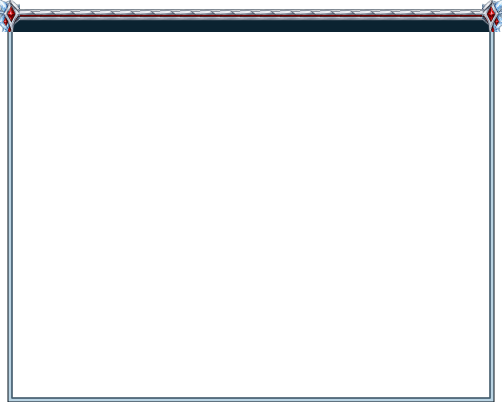
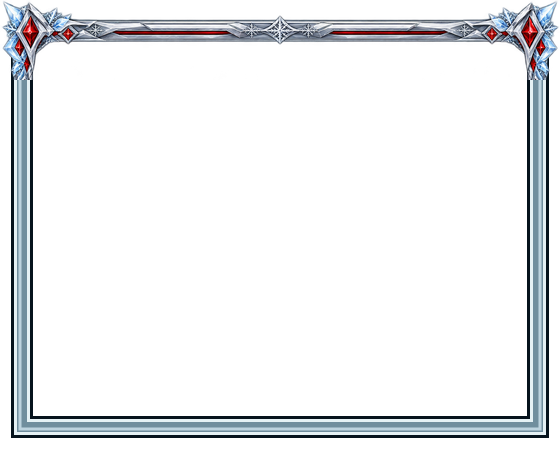
Prepare Winter Atelier 0.2.5 frames, footers and atlas cleanup

Changed region(s): [[0.0, 0.0, 1.0, 1.0]]

diff --git a/Winter-Atelier-Test/css/winter-atelier.css b/Winter-Atelier-Test/css/winter-atelier.css
@@ -16,13 +16,13 @@ ins,mark{color:var(--wa-text-main);}
 .interface-element-additional-bag-eq-icon-background,.interface-element-equipment .eq-slot[data-st="9"] .eq-cl,.interface-element-equipment-with-additional-bag .eq-slot[data-st="9"] .eq-cl{background-image:url(../assets/equipment-empty-icons.png);background-size:234px 26px;background-position:-208px 0px;background-repeat:no-repeat;}
 .interface-element-boots-eq-icon-background,.interface-element-equipment .eq-slot[data-st="8"] .eq-cl,.interface-element-equipment-with-additional-bag .eq-slot[data-st="8"] .eq-cl{background-image:url(../assets/equipment-empty-icons.png);background-size:234px 26px;background-position:-182px 0px;background-repeat:no-repeat;}
 .interface-element-bag-eq-icon-background{background-image:url(../assets/buttony.png);}
-.interface-element-border-window-frame{border-image-source:url(../assets/window-frame.png);}
-.additional-skill-panel .graphics .additional-skill-panel-border{border-image-source:url(../assets/window-frame.png);bottom:0px;}
-.battle-controller .graphics .battle-border{border-image-source:url(../assets/window-frame.png);bottom:0px;background-color:rgba(10,20,25,.68);background-image:linear-gradient(135deg,rgba(222,241,247,.065),transparent 35%,rgba(0,0,0,.16)),url(../assets/frost-surface.png);background-clip:padding-box;box-shadow:inset 0 1px rgba(210,237,245,.08),inset 0 -12px 28px rgba(0,0,0,.18);isolation:isolate;}
-.border-window{border-image-source:url(../assets/window-frame.png);color:var(--wa-text-main);background-color:rgba(10,20,25,.68);background-image:linear-gradient(135deg,rgba(222,241,247,.065),transparent 35%,rgba(0,0,0,.16)),url(../assets/frost-surface.png);background-clip:padding-box;box-shadow:inset 0 1px rgba(210,237,245,.08),inset 0 -12px 28px rgba(0,0,0,.18);--wa-bg-secondary:rgba(9,20,25,.22);}
+.interface-element-border-window-frame{border-image-source:none;}
+.additional-skill-panel .graphics .additional-skill-panel-border{border-image-source:url(../assets/battle-compact-frame.png);bottom:0px;border-image-slice:80;border-image-width:40px;border-image-outset:0px 4px;border-image-repeat:stretch;}
+.battle-controller .graphics .battle-border{border-image-source:url(../assets/battle-compact-frame.png);bottom:0px;background-color:rgba(10,20,25,.68);background-image:linear-gradient(135deg,rgba(222,241,247,.065),transparent 35%,rgba(0,0,0,.16)),url(../assets/frost-surface.png);background-clip:padding-box;box-shadow:inset 0 1px rgba(210,237,245,.08),inset 0 -12px 28px rgba(0,0,0,.18);isolation:isolate;border-image-slice:80;border-image-width:40px;border-image-outset:0px 4px;border-image-repeat:stretch;}
+.border-window{border-image-source:none;color:var(--wa-text-main);background-color:rgba(10,20,25,.68);background-image:linear-gradient(135deg,rgba(222,241,247,.065),transparent 35%,rgba(0,0,0,.16)),url(../assets/frost-surface.png);background-clip:padding-box;box-shadow:inset 0 1px rgba(210,237,245,.08),inset 0 -12px 28px rgba(0,0,0,.18);--wa-bg-secondary:rgba(9,20,25,.22);}
 .interface-element-equipment .equipment-wrapper-outline .equipment-outline-1,.interface-element-equipment-with-additional-bag .equipment-wrapper-outline .equipment-outline-1,.interface-element-equipment .equipment-wrapper-outline .equipment-outline-2,.interface-element-equipment-with-additional-bag .equipment-wrapper-outline .equipment-outline-2,.interface-element-equipment .equipment-wrapper-outline .equipment-outline-3,.interface-element-equipment-with-additional-bag .equipment-wrapper-outline .equipment-outline-3,.interface-element-equipment .equipment-wrapper-outline .equipment-outline-4,.interface-element-equipment-with-additional-bag .equipment-wrapper-outline .equipment-outline-4{background-color:var(--wa-bg-secondary);}
-.interface-element-border-window-header-middle,.trade-window header .h_background .middle{background-color:var(--wa-ruby);background-image:linear-gradient(#4b1022,#8c1934 45%,#3b0b1b);box-shadow:inset 0 1px #071019,inset 0 2px #b4d6e8,inset 0 3px #54748b,inset 0 -1px #071019,inset 0 -2px #b4d6e8,inset 0 -3px #54748b;}
-.border-window .header-label-positioner .header-label{background-color:transparent;background-image:linear-gradient(to bottom,rgba(164,180,191,0.90196078) 0px 1px,rgba(173,188,199,1) 1px 2px,rgba(115,130,143,1) 2px 3px,rgba(47,32,40,1) 3px 4px,rgba(154,23,41,1) 4px 5px,rgba(95,7,12,1) 5px 6px,rgba(73,0,1,1) 6px 7px,rgba(75,0,3,1) 7px 8px,rgba(81,0,2,1) 8px 9px,rgba(84,0,3,1) 9px 10px,rgba(78,0,2,1) 10px 11px,rgba(83,0,3,1) 11px 12px,rgba(86,0,3,1) 12px 13px,rgba(96,0,6,1) 13px 14px,rgba(81,0,4,1) 14px 15px,rgba(72,0,2,1) 15px 16px,rgba(85,0,4,1) 16px 17px,rgba(88,0,4,1) 17px 18px,rgba(78,1,5,1) 18px 19px,rgba(64,0,0,1) 19px 20px,rgba(62,7,10,1) 20px 21px,rgba(122,142,161,1) 21px 22px,rgba(107,134,158,1) 22px 23px,rgba(62,84,104,1) 23px 24px,rgba(107,134,158,1) 24px 25px,rgba(107,133,158,1) 25px 26px,rgba(107,134,158,0.83529412) 26px 27px,rgba(107,134,158,0.2627451) 27px 28px);box-shadow:none;}
+.interface-element-border-window-header-middle{background-color:var(--wa-ruby);background-image:linear-gradient(#4b1022,#8c1934 45%,#3b0b1b);box-shadow:inset 0 1px #071019,inset 0 2px #b4d6e8,inset 0 3px #54748b,inset 0 -1px #071019,inset 0 -2px #b4d6e8,inset 0 -3px #54748b;}
+.trade-window header .h_background .middle,.border-window .header-label-positioner .header-label{background-color:transparent;box-shadow:none;}
 .interface-element-one-item-slot-background-to-repeat{background-image:url(../assets/shop-item-cell.png);background-position:0px 0px;background-repeat:repeat;background-size:33px 33px;}
 .shop-wrapper .shop-content .shop-items.scrollable .scroll-pane,.interface-element-item-slot-grid-stretch{background-image:url(../assets/shop-item-cell.png);background-size:33px 33px;background-position:0px 0px;background-repeat:repeat;}
 .interface-element-vertical-wood{background-image:url(../assets/middle_graphics.png);}
@@ -198,7 +198,7 @@ body:not(.mobile-version) .button:not(.no-hover):not(.disabled):hover:not(.activ
 .border-window .close-button-corner-decor .close-button{cursor:url(../assets/cursor-5n.png) 4 0,auto;background-image:url(../assets/window-close.png),linear-gradient(#751a2e,#290c18);background-color:#401020;background-position:0px 0px;background-size:100% 100%,100% 100%;background-repeat:no-repeat;box-shadow:inset 0 0 0 1px #e0f0f5,inset 0 0 0 2px #667e8b,0 0 0 1px #12212a;border-radius:3px;}
 .border-window .header-label-positioner{cursor:url(../assets/cursor-5n.png) 4 0,auto;}
 .border-window .header-label-positioner .header-label .left-decor,.border-window .header-label-positioner .header-label .right-decor{background-image:url(../assets/dialogi.png);}
-.search-component{border-image-source:url(../assets/search-frame.png);}
+.search-component{border-image-source:none;}
 .search-component .search{color:var(--wa-text-main);}
 .scroll-wrapper .scrollbar-wrapper .track .handle{cursor:url(../assets/cursor-5n.png) 4 0,auto;}
 .test-scroll{color:var(--wa-text-main);}
@@ -235,7 +235,7 @@ body:not(.mobile-version) .button:not(.no-hover):not(.disabled):hover:not(.activ
 .cost-icon-component .cost-icon-wrapper .icon.honor-icon{background-image:url(../assets/honorIconNormal.png);}
 .pb-fifty:before{background-color:var(--wa-bg-secondary);}
 .card-button-test.active,.card-button-test:hover,.loot-window{color:var(--wa-text-main);}
-.loot-window .bottom-bar-wrapper .bottom-bar{background-image:url(../assets/buttony.png);left:0px;right:0px;}
+.loot-window .bottom-bar-wrapper .bottom-bar{background-image:none;left:-10px;right:-10px;border-image-source:none;width:auto;}
 .loot-window .items-wrapper .loot-item-wrapper .text-info{color:var(--wa-text-main);}
 .loot-window .items-wrapper .loot-item-wrapper .button .label.want,.loot-window .items-wrapper .loot-item-wrapper .button .label.not,.loot-window .items-wrapper .loot-item-wrapper .button .label.must{background-image:url(../assets/buttony.png);}
 .relogger__header{color:var(--wa-text-main);}
@@ -315,7 +315,7 @@ body:not(.mobile-version) .button:not(.no-hover):not(.disabled):hover:not(.activ
 .one-handheld-build{cursor:url(../assets/cursor-5n.png) 4 0,auto;background-color:var(--wa-bg-secondary);}
 .one-handheld-build.active{background-color:var(--wa-bg-secondary);}
 .barter-window .crafting-cost-panel .cost-header-label,.barter-window .additional-container .c-slider__state{color:var(--wa-text-main);}
-.shop-wrapper .shop-background .outfit-pet-scene{background-image:url(../assets/pet-shop-gold.png);}
+.shop-wrapper .shop-background .outfit-pet-scene{background-image:url(../assets/shop-scene.png);background-position:0 0;background-repeat:no-repeat;background-size:166px 130px;}
 .shop-wrapper .shop-background.normal-shop-zl .canopy{background-image:url(../assets/shop-canopy.png);background-position:0 -2px;background-size:488px 92px;background-repeat:repeat-x;}
 .shop-wrapper .shop-background.normal-shop-sl .canopy{background-image:url(../assets/shop-canopy.png);background-position:0 -48px;background-size:488px 92px;background-repeat:repeat-x;}
 .shop-wrapper .shop-background.pet-shop-zl .canopy{background-image:url(../assets/shop-canopy.png);background-position:0 -2px;background-size:488px 92px;background-repeat:repeat-x;}
@@ -393,7 +393,8 @@ body:not(.mobile-version) .button:not(.no-hover):not(.disabled):hover:not(.activ
 .battle-window .battlelog div.attack{background-image:url(../assets/line-highlight-green2.png);}
 .battle-window .battlelog div.attack2{background-image:url(../assets/line-highlight-red2.png);}
 .battle-window .battlelog div.neu{background-image:url(../assets/line-highlight-yellow2.png);}
-.one-battle-skill-tip .skill-tip-header .skill-graphic-wrapper,.battle-summary .bottom-bar-wrapper .bottom-bar{background-image:url(../assets/buttony.png);}
+.one-battle-skill-tip .skill-tip-header .skill-graphic-wrapper{background-image:url(../assets/buttony.png);}
+.battle-summary .bottom-bar-wrapper .bottom-bar{background-image:none;border-image-source:none;left:-10px;right:-10px;width:auto;}
 .battle-summary .bottom-bar-wrapper .bottom-bar .settings-button{cursor:url(../assets/cursor-5n.png) 4 0,auto;}
 .battle-summary .bottom-bar-wrapper .bottom-bar .settings-button .icon{background-image:url(../assets/buttony.png);}
 .battle-banner{background-image:url(../assets/battle-banner.png);}
@@ -439,7 +440,8 @@ body:not(.mobile-version) .button:not(.no-hover):not(.disabled):hover:not(.activ
 .card-content .table-header td.header-sort--asc:after,.card-content .table-header td.header-sort--desc:after{background-image:url(../assets/buttony.png);}
 .clan-list-content .first-scroll-wrapper .scroll-pane table .hover:hover{cursor:url(../assets/cursor-5n.png) 4 0,auto;background-color:var(--wa-bg-secondary);}
 .clan-list-find-panel .clan-list-find-content .input-wrapper .default{color:var(--wa-text-main);}
-.clan-members-content .scroll-wrapper .scroll-pane .clan-member .add-to-group .button .add-bck,.clan-treasury-content .scroll-wrapper .scroll-pane .right-part .outfit-content{background-image:url(../assets/buttony.png);}
+.clan-members-content .scroll-wrapper .scroll-pane .clan-member .add-to-group .button .add-bck{background-image:url(../assets/buttony.png);}
+.clan-treasury-content .scroll-wrapper .scroll-pane .right-part .outfit-content{background-image:url(../assets/clan-outfit-scene.png);background-position:0 0;background-repeat:no-repeat;background-size:168px 256px;}
 .clan-rank-edit-content .check-rank .left-ranks .one-rank .v-align,.clan-rank-edit-content .check-rank .right-ranks .one-rank .v-align{cursor:url(../assets/cursor-5n.png) 4 0,auto;}
 .clan-manage-content .socplay .v-align .v-item .label-box{background-color:var(--wa-bg-secondary);}
 .clan-info-content .scroll-wrapper .scroll-pane .ribbon{background-image:url(../assets/buttony.png);}
@@ -701,7 +703,7 @@ body{color:var(--wa-text-main);font-family:"Winter Atelier Cinzel",Arimo,Calibri
 .battle-controller .battle-content .time-wrapper{top:5px;}
 .battle-controller .battle-watch{top:6px;line-height:14px;padding:0px 4px;white-space:nowrap;font-family:Arial,sans-serif;font-size:11px;font-variant-numeric:tabular-nums;font-weight:700;color:#ffffff;background-color:#102532;border-radius:2px;text-shadow:0 1px #02070b;}
 .battle-controller .battle-watch.right,.battle-controller .battle-watch.middle,.game-window-positioner.light-interface .interface-layer .bottom.positioner .battle-controller .battle-watch.right{right:136px;top:6px;}
-.battle-controller .battle-content .buttons-wrapper .button.square{bottom:5px;}
+.battle-controller .battle-content .buttons-wrapper .button.square{bottom:7px;}
 .battle-controller:not(.with-skills) .graphics .bottom-graphic{background-image:none;height:50px;background-color:rgba(10,20,25,.68);}
 .battle-controller:not(.with-skills) .battle-content .left-column,.battle-controller:not(.with-skills) .battle-content .right-column,.battle-controller:not(.with-skills) .graphics .middle-graphic{bottom:50px;}
 .battle-controller .battle-content .buttons-wrapper .change-target-btn.square,.battle-controller .battle-content .buttons-wrapper .copy-battle-logs.square{left:20px;}
@@ -721,7 +723,7 @@ body{color:var(--wa-text-main);font-family:"Winter Atelier Cinzel",Arimo,Calibri
 .layer.interface-layer .positioner.top .hud-container .hero-data .hero_class.t{background-image:url(../assets/profession-tracker.png);background-position:0 0;background-repeat:no-repeat;background-size:20px 20px;}
 .layer.interface-layer .positioner.top .hud-container .gold-tip{background-image:url(../assets/ui-gold-21x21.png);background-position:0 0;background-repeat:no-repeat;background-size:21px 21px;}
 .layer.interface-layer .positioner.top .hud-container .credits-tip{background-image:url(../assets/credits-gem.png);background-position:center;background-repeat:no-repeat;background-size:16.5px 21px;}
-.trade-window{background-color:rgba(10,20,25,.68);background-image:linear-gradient(135deg,rgba(222,241,247,.065),transparent 35%,rgba(0,0,0,.16)),url(../assets/frost-surface.png);background-clip:padding-box;box-shadow:inset 0 1px rgba(210,237,245,.08),inset 0 -12px 28px rgba(0,0,0,.18);border-bottom-width:42px;border-image-width:32px 20px;isolation:isolate;}
+.trade-window{background-color:rgba(10,20,25,.68);background-image:linear-gradient(135deg,rgba(222,241,247,.065),transparent 35%,rgba(0,0,0,.16)),url(../assets/frost-surface.png);background-clip:padding-box;box-shadow:inset 0 1px rgba(210,237,245,.08),inset 0 -12px 28px rgba(0,0,0,.18);border-bottom-width:42px;isolation:isolate;border-image-source:none;--wa-frame-bottom:42px;}
 .bubbledialog{background-color:transparent;background-image:none;background-clip:padding-box;box-shadow:none;}
 .tip-wrapper{background-color:#071d2bdf;background-image:none;background-clip:padding-box;box-shadow:0 0 0 1px #8db1cc,0 3px 8px #0009;color:#e1eff8;border-color:#9cbfd5;}
 .border-window.transparent{--wa-bg-secondary:rgba(9,20,25,.12);background-color:transparent;background-image:none;box-shadow:none;}
@@ -821,7 +823,8 @@ body{color:var(--wa-text-main);font-family:"Winter Atelier Cinzel",Arimo,Calibri
 .game-window-positioner .character_wrapper .pvp-btn.fight:hover{background-image:url(../assets/pvp-states.png);background-size:104px 28px;background-position:-78px 0px;background-repeat:no-repeat;}
 .one-build .build-index-wrapper,.one-build-to-buy .build-index-wrapper,.one-handheld-build .build-index-wrapper{background-image:url(../assets/build-index-frame.png);background-size:100% 100%;background-position:center;background-repeat:no-repeat;}
 .build-index{color:#edf7fc;text-shadow:0 1px 1px #02080d;}
-.border-window:not(.transparent)::before,.battle-controller .graphics .battle-border::before{content:"";position:absolute;top:-8px;right:-4px;bottom:-12px;left:-4px;background-color:#0b2331;clip-path:polygon(4px 0,calc(100% - 4px) 0,calc(100% - 4px) 8px,100% 8px,100% calc(100% - 12px),calc(100% - 4px) calc(100% - 12px),calc(100% - 4px) 100%,4px 100%,4px calc(100% - 12px),0 calc(100% - 12px),0 8px,4px 8px);z-index:-1;pointer-events:none;}
+.border-window:not(.transparent)::before{content:"";position:absolute;top:-8px;right:-4px;bottom:-12px;left:-4px;background-color:#0b2331;clip-path:polygon(4px 0,calc(100% - 4px) 0,calc(100% - 4px) 8px,100% 8px,100% calc(100% - 12px),calc(100% - 4px) calc(100% - 12px),calc(100% - 4px) 100%,4px 100%,4px calc(100% - 12px),0 calc(100% - 12px),0 8px,4px 8px);z-index:-1;pointer-events:none;}
+.battle-controller .graphics .battle-border::before{content:"";position:absolute;top:-12px;right:-12px;bottom:-20px;left:-12px;background-color:#0b2331;clip-path:polygon(4px 0,calc(100% - 4px) 0,calc(100% - 4px) 8px,100% 8px,100% calc(100% - 12px),calc(100% - 4px) calc(100% - 12px),calc(100% - 4px) 100%,4px 100%,4px calc(100% - 12px),0 calc(100% - 12px),0 8px,4px 8px);z-index:-1;pointer-events:none;}
 .auction-window .left-column-auction .all-categories-auction .one-category-auction .icon{background-image:url(../assets/auction-categories.png);background-size:650px 26px;background-repeat:no-repeat;width:26px;height:26px;top:3px;}
 .auction-window .left-column-auction .all-categories-auction .one-category-auction .icon.cl-1{background-position:0px 0px;}
 .auction-window .left-column-auction .all-categories-auction .one-category-auction .icon.cl-2{background-position:-26px 0px;}
@@ -849,12 +852,23 @@ body{color:var(--wa-text-main);font-family:"Winter Atelier Cinzel",Arimo,Calibri
 .auction-window .left-column-auction .all-categories-auction .one-category-auction .icon.cl-32{background-position:-598px 0px;}
 .auction-window .left-column-auction .all-categories-auction .one-category-auction .icon.cl-99{background-position:-624px 0px;width:26px;}
 .enhance__progressbar::after{content:"";position:absolute;width:7px;height:7px;left:calc(50% - 3.5px);top:calc(50% - 3.5px);transform:rotate(45deg);background-image:linear-gradient(135deg,#ef8391,#940c29 55%,#340e20);box-shadow:0 0 0 1px #cde5ef;pointer-events:none;}
-.border-window:not(.transparent):is(.c-window--with-bottom-bar,:has(.bottom-row-panel:not([style*="display: none"]),.bottom-change-outfit-panel,.bottom-bar,.bottom-part,.bottom-wrapper,.premium-bottom-panel,.console-bottom-panel-wrapper,.bottom-mail-panel,.bottom-friend-panel,.bottom-panel-graphics)){border-bottom-width:42px;border-image-width:32px 20px;}
-.border-window:not(.transparent):is(.c-window--with-bottom-bar,:has(.bottom-row-panel:not([style*="display: none"]),.bottom-change-outfit-panel,.bottom-bar,.bottom-part,.bottom-wrapper,.premium-bottom-panel,.console-bottom-panel-wrapper,.bottom-mail-panel,.bottom-friend-panel,.bottom-panel-graphics))::before{bottom:-28px;}
-.left-grouped-list-and-right-description-window .bottom-row-panel,.change-outfit .bottom-change-outfit-panel,.battle-pass-window .bottom-row-panel,.trade-window .bottom-bar,.c-window__bottom-bar,.depo .bottom-bar{left:0px;right:0px;}
-.trade-window::before{content:"";position:absolute;top:-8px;bottom:-26px;left:0px;right:0px;background-color:#0b2331;z-index:-1;pointer-events:none;}
+.border-window:not(.transparent):is(.c-window--with-bottom-bar,:has(.bottom-row-panel:not([style*="display: none"]),.bottom-change-outfit-panel,.bottom-bar,.bottom-part,.bottom-wrapper,.premium-bottom-panel,.console-bottom-panel-wrapper,.bottom-mail-panel,.bottom-friend-panel,.bottom-panel-graphics)){border-bottom-width:42px;--wa-frame-bottom:42px;}
+.left-grouped-list-and-right-description-window .bottom-row-panel,.change-outfit .bottom-change-outfit-panel,.battle-pass-window .bottom-row-panel{left:-10px;right:-10px;background-image:none;border-image-source:none;width:auto;}
+.trade-window .bottom-bar{left:-10px;right:-10px;background-image:linear-gradient(rgba(190,220,234,.09),transparent 25%,rgba(1,8,14,.46)),url(../assets/shop-interior.png);border-image-source:none;width:auto;background-size:100% 100%,cover;background-position:0px 0px,center bottom;background-repeat:no-repeat;background-color:#0b2331;box-shadow:inset 0 1px #a7c5d4,inset 0 3px #162e3c,inset 0 -3px #030d14,inset 0 8px 10px rgba(2,10,16,.3);border-color:transparent;}
+.c-window__bottom-bar,.depo .bottom-bar{left:-10px;right:-10px;background-image:none;border-image-source:none;width:auto;}
+.trade-window::before{content:"";position:absolute;top:-20px;bottom:calc(8px - var(--wa-frame-bottom));left:-12px;right:-12px;background-color:#0b2331;z-index:-1;pointer-events:none;background-image:none;clip-path:polygon(8px 0,calc(100% - 8px) 0,100% 8px,100% calc(100% - 8px),calc(100% - 8px) 100%,8px 100%,0 calc(100% - 8px),0 8px);}
 .border-window:has(.depo) .content{padding:16px 0 10px;}
-.border-window .bottom-bar,.loot-window .bottom-wrapper,.auction-window .bottom-part,.border-window .world-window .bottom-bar,.premium-panel .premium-bottom-panel,.matchmaking-summary .bottom-panel-graphics,.divide-panel .bottom-part,.console-window .console-bottom-panel-wrapper,.mails-window .bottom-mail-panel,.friend-enemy-list .bottom-friend-panel,.skills-window .bottom-part,.matchmaking-panel .bottom-panel-graphics{left:0px;right:0px;}
+.border-window .bottom-bar,.loot-window .bottom-wrapper,.auction-window .bottom-part,.border-window .world-window .bottom-bar,.premium-panel .premium-bottom-panel,.matchmaking-summary .bottom-panel-graphics,.divide-panel .bottom-part,.console-window .console-bottom-panel-wrapper,.mails-window .bottom-mail-panel,.friend-enemy-list .bottom-friend-panel,.skills-window .bottom-part,.matchmaking-panel .bottom-panel-graphics{left:-10px;right:-10px;background-image:none;border-image-source:none;width:auto;}
+.border-window:not(.transparent):not(.tip-window){border-image-source:none;--wa-frame-bottom:32px;isolation:isolate;}
+.border-window:not(.transparent):not(.tip-window)::before{content:"";position:absolute;top:-20px;right:-12px;bottom:calc(8px - var(--wa-frame-bottom));left:-12px;background-color:#0b2331;background-image:none;clip-path:polygon(8px 0,calc(100% - 8px) 0,100% 8px,100% calc(100% - 8px),calc(100% - 8px) 100%,8px 100%,0 calc(100% - 8px),0 8px);z-index:-1;pointer-events:none;}
+.border-window:not(.transparent):not(.tip-window)::after,.trade-window::after{content:"";position:absolute;top:-40px;right:-28px;bottom:calc(-8px - var(--wa-frame-bottom));left:-28px;border:40px solid transparent;border-image-source:url(../assets/window-outer-frame.png);border-image-slice:80;border-image-width:40px;border-image-repeat:stretch;box-sizing:border-box;z-index:2;pointer-events:none;}
+.border-window:not(.transparent):not(.tip-window) .header-label-positioner{z-index:3;}
+.border-window:not(.transparent):not(.tip-window) .close-button-corner-decor{z-index:4;}
+.trade-window header{z-index:3;}
+.border-window:not(.transparent):not(.tip-window) :is(.bottom-bar,.bottom-wrapper,.bottom-part,.bottom-row-panel,.bottom-change-outfit-panel,.premium-bottom-panel,.console-bottom-panel-wrapper,.bottom-mail-panel,.bottom-friend-panel,.bottom-panel-graphics,.c-window__bottom-bar){background-image:linear-gradient(rgba(190,220,234,.09),transparent 25%,rgba(1,8,14,.46)),url(../assets/shop-interior.png);background-size:100% 100%,cover;background-position:0px 0px,center bottom;background-repeat:no-repeat;background-color:#0b2331;box-shadow:inset 0 1px #a7c5d4,inset 0 3px #162e3c,inset 0 -3px #030d14,inset 0 8px 10px rgba(2,10,16,.3);border-image-source:none;border-color:transparent;}
+.border-window .left-grouped-list-and-right-description-window .left-grouped-list-right-column-bottom-row-panel{left:-8px;right:-8px;}
+.border-window .players-online .players-online__content .bottom-bar{left:0px;right:0px;}
+.border-window:not(.transparent):not(.tip-window) .search-component{border-image-source:none;border-color:transparent;background-image:url(../assets/search-glass.png),linear-gradient(#102b3a,#091c27);background-size:16px 16px,100% 100%;background-position:8px center,0px 0px;background-repeat:no-repeat;background-origin:border-box;background-clip:border-box;border-radius:2px;box-shadow:inset 0 0 0 1px #587889,inset 0 2px 3px #051019;}
 .border-window input:not([type="checkbox"]):not([type="radio"]):not([type="range"]):not([type="color"]){color:#e5eff5!important;caret-color:#e5eff5;}
 .border-window input::placeholder{color:#9eb6c6;opacity:1;}
 .trade-window .content{color:#e5eff5;}
@@ -866,9 +880,11 @@ body{color:var(--wa-text-main);font-family:"Winter Atelier Cinzel",Arimo,Calibri
 .game-window-positioner.classic-interface .interface-layer .main-buttons-container.top-right.static-widget-position{translate:0px 8px;}
 .game-window-positioner.classic-interface .interface-layer .main-buttons-container.bottom-right.static-widget-position{translate:0px -7px;}
 body[data-res]:not([data-res="default"]) .layer.interface-layer{border-image-source:url(../assets/window-mode-silver-frame.png)!important;border-image-slice:7!important;}
-.battle-controller[size="1"] .graphics .battle-border{border-image-source:url(../assets/battle-compact-frame.png);}
+.battle-controller[size="1"] .graphics .battle-border{border-image-source:url(../assets/battle-compact-frame.png);border-image-slice:80;border-image-width:40px;border-image-outset:0px 4px;border-image-repeat:stretch;}
+.battle-controller[size="1"].with-skills .graphics .bottom-graphic{mask-image:linear-gradient(transparent 0px,transparent 24px,#000 24px);background-color:transparent;}
 .bubbledialog .bg-layer.left .bottom-frame{background-image:url(../assets/bubble-bottom-left-joined.png);background-position:0px 0px;}
 .border-window .header-label-positioner .header-label .text,.trade-window header .h_content{color:var(--wa-text-main);}
+.border-window .header-label-positioner .header-label,.trade-window header .h_background .middle{background-image:linear-gradient(to bottom,rgba(164,180,191,0.90196078) 0px 1px,rgba(173,188,199,1) 1px 2px,rgba(115,130,143,1) 2px 3px,rgba(47,32,40,1) 3px 4px,rgba(154,23,41,1) 4px 5px,rgba(95,7,12,1) 5px 6px,rgba(73,0,1,1) 6px 7px,rgba(75,0,3,1) 7px 8px,rgba(81,0,2,1) 8px 9px,rgba(84,0,3,1) 9px 10px,rgba(78,0,2,1) 10px 11px,rgba(83,0,3,1) 11px 12px,rgba(86,0,3,1) 12px 13px,rgba(96,0,6,1) 13px 14px,rgba(81,0,4,1) 14px 15px,rgba(72,0,2,1) 15px 16px,rgba(85,0,4,1) 16px 17px,rgba(88,0,4,1) 17px 18px,rgba(78,1,5,1) 18px 19px,rgba(64,0,0,1) 19px 20px,rgba(62,7,10,1) 20px 21px,rgba(122,142,161,1) 21px 22px,rgba(107,134,158,1) 22px 23px,rgba(62,84,104,1) 23px 24px,rgba(107,134,158,1) 24px 25px,rgba(107,133,158,1) 25px 26px,rgba(107,134,158,0.83529412) 26px 27px,rgba(107,134,158,0.2627451) 27px 28px);}
 .button.red{--wa-control-top:#741a30ed;--wa-control-bottom:#300d1bf5;background-image:var(--wa-control-normal-image);box-shadow:var(--wa-control-bevel);}
 .button.blue{--wa-control-top:#244d62ed;--wa-control-bottom:#0b2130f5;background-image:var(--wa-control-normal-image);box-shadow:var(--wa-control-bevel);}
 .button.green{--wa-control-top:#20414bed;--wa-control-bottom:#0b2029f5;background-image:var(--wa-control-normal-image);box-shadow:var(--wa-control-bevel);}

diff --git a/Winter-Atelier-Test/README.md b/Winter-Atelier-Test/README.md
@@ -1,4 +1,12 @@
-# Winter Atelier — test 0.2.4
+# Winter Atelier — test 0.2.5
+
+Wydanie testowe 0.2.5-test. Wygląd i płynność oczekują na ocenę użytkownika w grze.
+
+Zmiany po0.2.4: jedna pełna rama9-slice dużych okien i osobna spójna rama walki, wypełnienie do wewnętrznej krawędzi, fakturowane stopki na pełną wewnętrzną szerokość, naturalne pola wyszukiwania, sceny podglądu stroju/maskotki i stroju klanowego ze wskazanego starego motywu. Usunięty osobny prostokątny środek tytułu handlu. Przyciski „Zmiana celu” i „Szybka walka” podniesione o kolejne2px. Najmniejsza walka bez dodatkowej górnej belki panelu umiejętności.
+
+Usunięte z eksportu zastąpione window-frame.png i search-frame.png. W zbiorczym buttony.png wyczyszczono13 zastąpionych pól HUD-u/belek, przy zachowaniu rozmiaru i chronionych współdzielonych pikseli. Audyt obecności URL nie oznacza pełnego audytu rzeczywistego użycia: raport effective-assets rozróżnia wybrane obrazy, nadpisane reguły i stany nieobjęte fixture. Jeden prawdziwy obraz zależny od JS, move-marker.png, jest zachowany.
+
+Pełny przegląd atlasu pozostaje otwarty:305 pozycji jego mapy nie ma reprezentacji w badanych stanach, więc nie zostały uznane za zbędne ani usunięte. Kontrola techniczna nie jest zatwierdzeniem wyglądu w rzeczywistej grze.
 
 [Zainstaluj lub zaktualizuj skrypt w Tampermonkey przez jsDelivr](https://cdn.jsdelivr.net/gh/Doiua97/MotywyNI@main/Winter-Atelier-Test/install/winter-atelier-rebuild-test.user.js), a następnie przeładuj grę. Zostaw włączony tylko jeden skrypt motywu.
 
